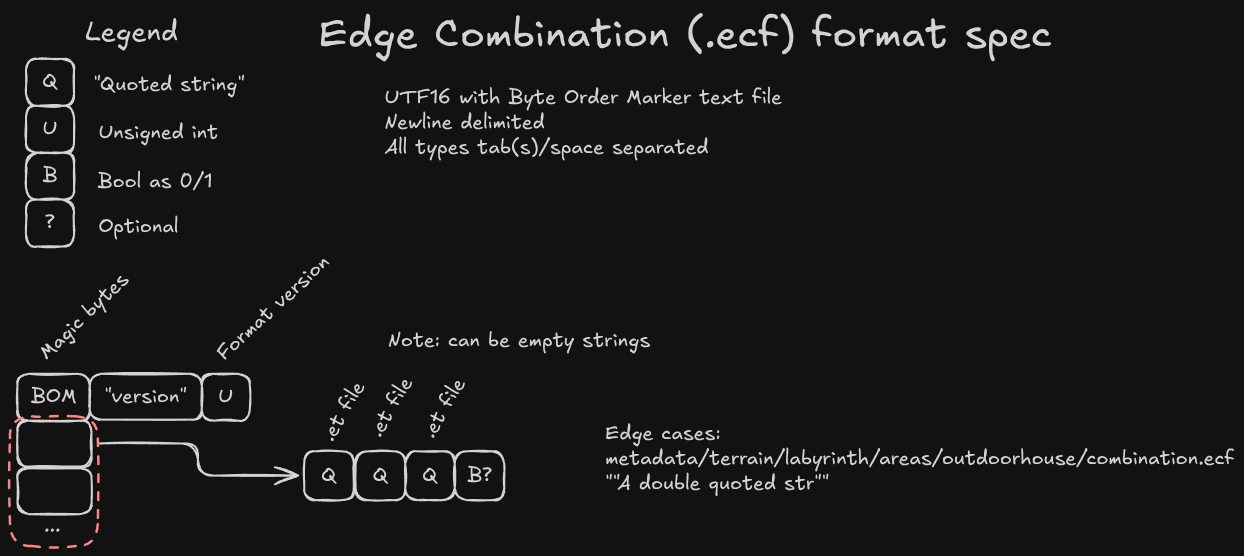
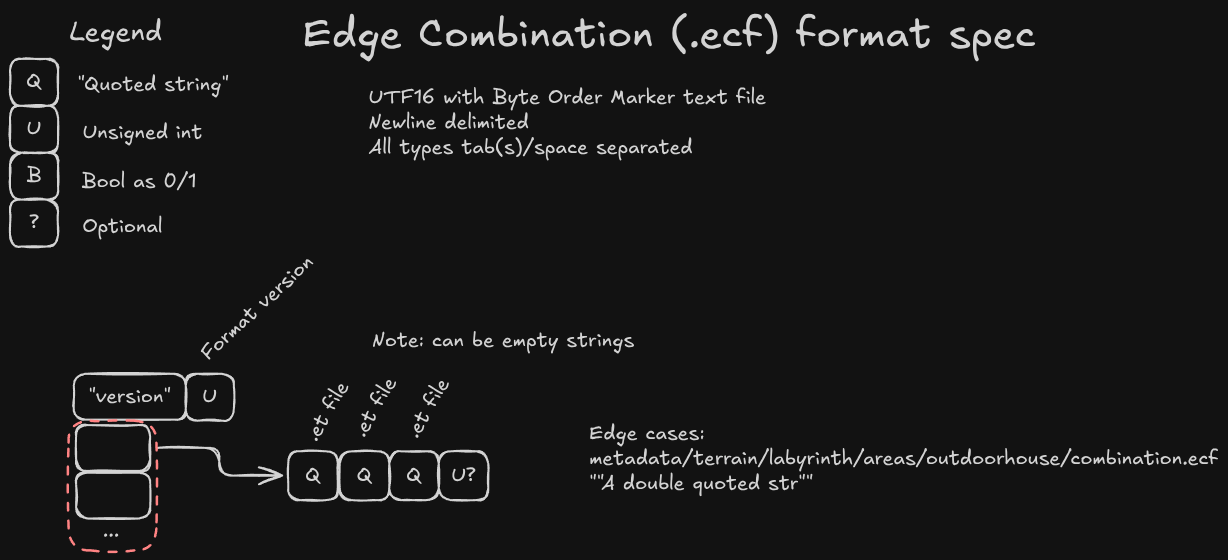
Update ECF with poe2 data

diff --git a/src/file_parsers/ecf/parser.rs b/src/file_parsers/ecf/parser.rs
@@ -1,7 +1,7 @@
 use anyhow::{Result, anyhow};
 use winnow::{
     Parser,
-    ascii::space1,
+    ascii::{dec_uint, space1},
     combinator::{opt, preceded, repeat},
 };
 
@@ -9,17 +9,16 @@ use super::types::*;
 use crate::file_parsers::{
     lift_winnow::lift,
     shared::winnow::{
-        TraceHelper, WinnowParser, optional_filename, parse_bool, quoted, separated_array,
-        version_line,
+        TraceHelper, WinnowParser, optional_filename, quoted, separated_array, version_line,
     },
 };
 
 fn combination<'a>() -> impl WinnowParser<&'a str, EcfCombination> {
     (
         separated_array(space1, quoted('"').and_then(optional_filename("et"))),
-        opt(preceded(space1, parse_bool)),
+        opt(preceded(space1, dec_uint)),
     )
-        .map(|(et_files, bool1)| EcfCombination { et_files, bool1 })
+        .map(|(et_files, uint1)| EcfCombination { et_files, uint1 })
         .trace("combination")
 }
 

diff --git a/src/file_parsers/ecf/mod.rs b/src/file_parsers/ecf/mod.rs
@@ -2,11 +2,10 @@ use anyhow::Result;
 
 use crate::file_parsers::{FileParser, shared::utf16_bom_to_string};
 
-pub mod nom_parser;
+pub mod parser;
 pub mod types;
-pub mod winnow_parser;
+use parser::parse_ecf_str;
 use types::*;
-use winnow_parser::parse_ecf_str;
 
 pub struct ECFParser;
 

diff --git a/src/file_parsers/ecf/types.rs b/src/file_parsers/ecf/types.rs
@@ -9,5 +9,5 @@ pub struct EcfFile {
 #[derive(Debug, Serialize)]
 pub struct EcfCombination {
     pub et_files: [Option<String>; 3],
-    pub bool1: Option<bool>,
+    pub uint1: Option<u32>,
 }
